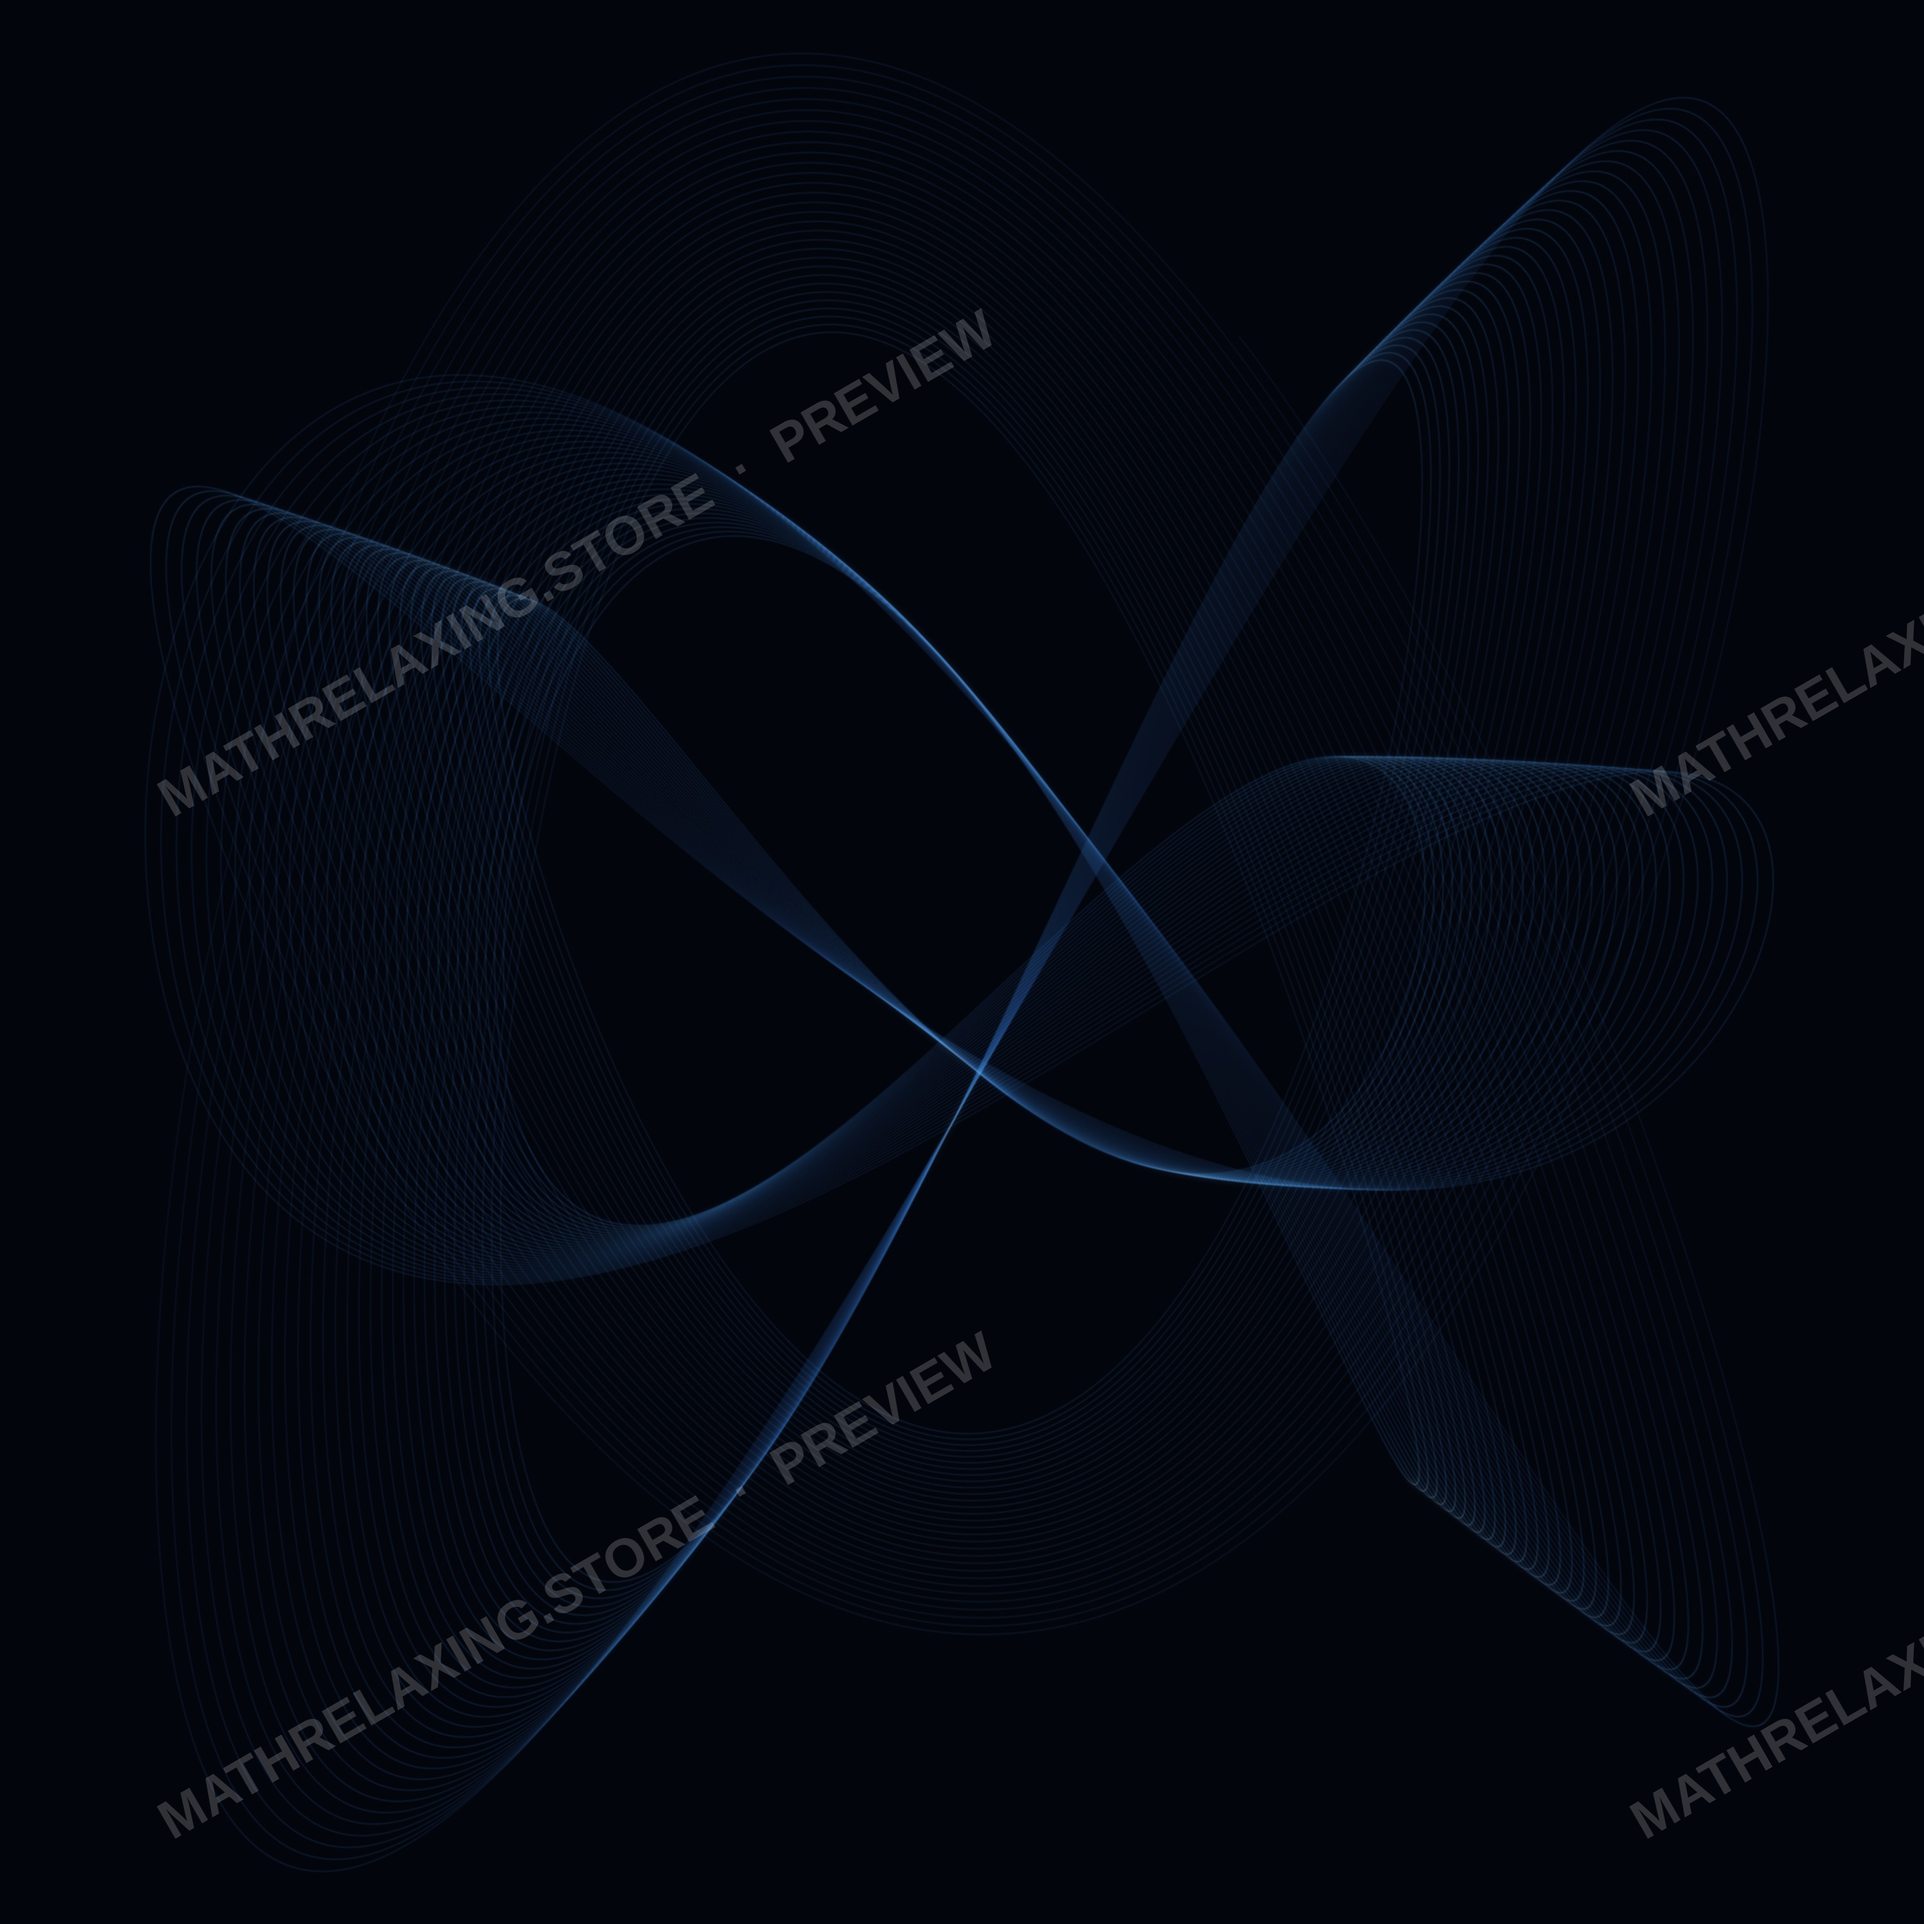
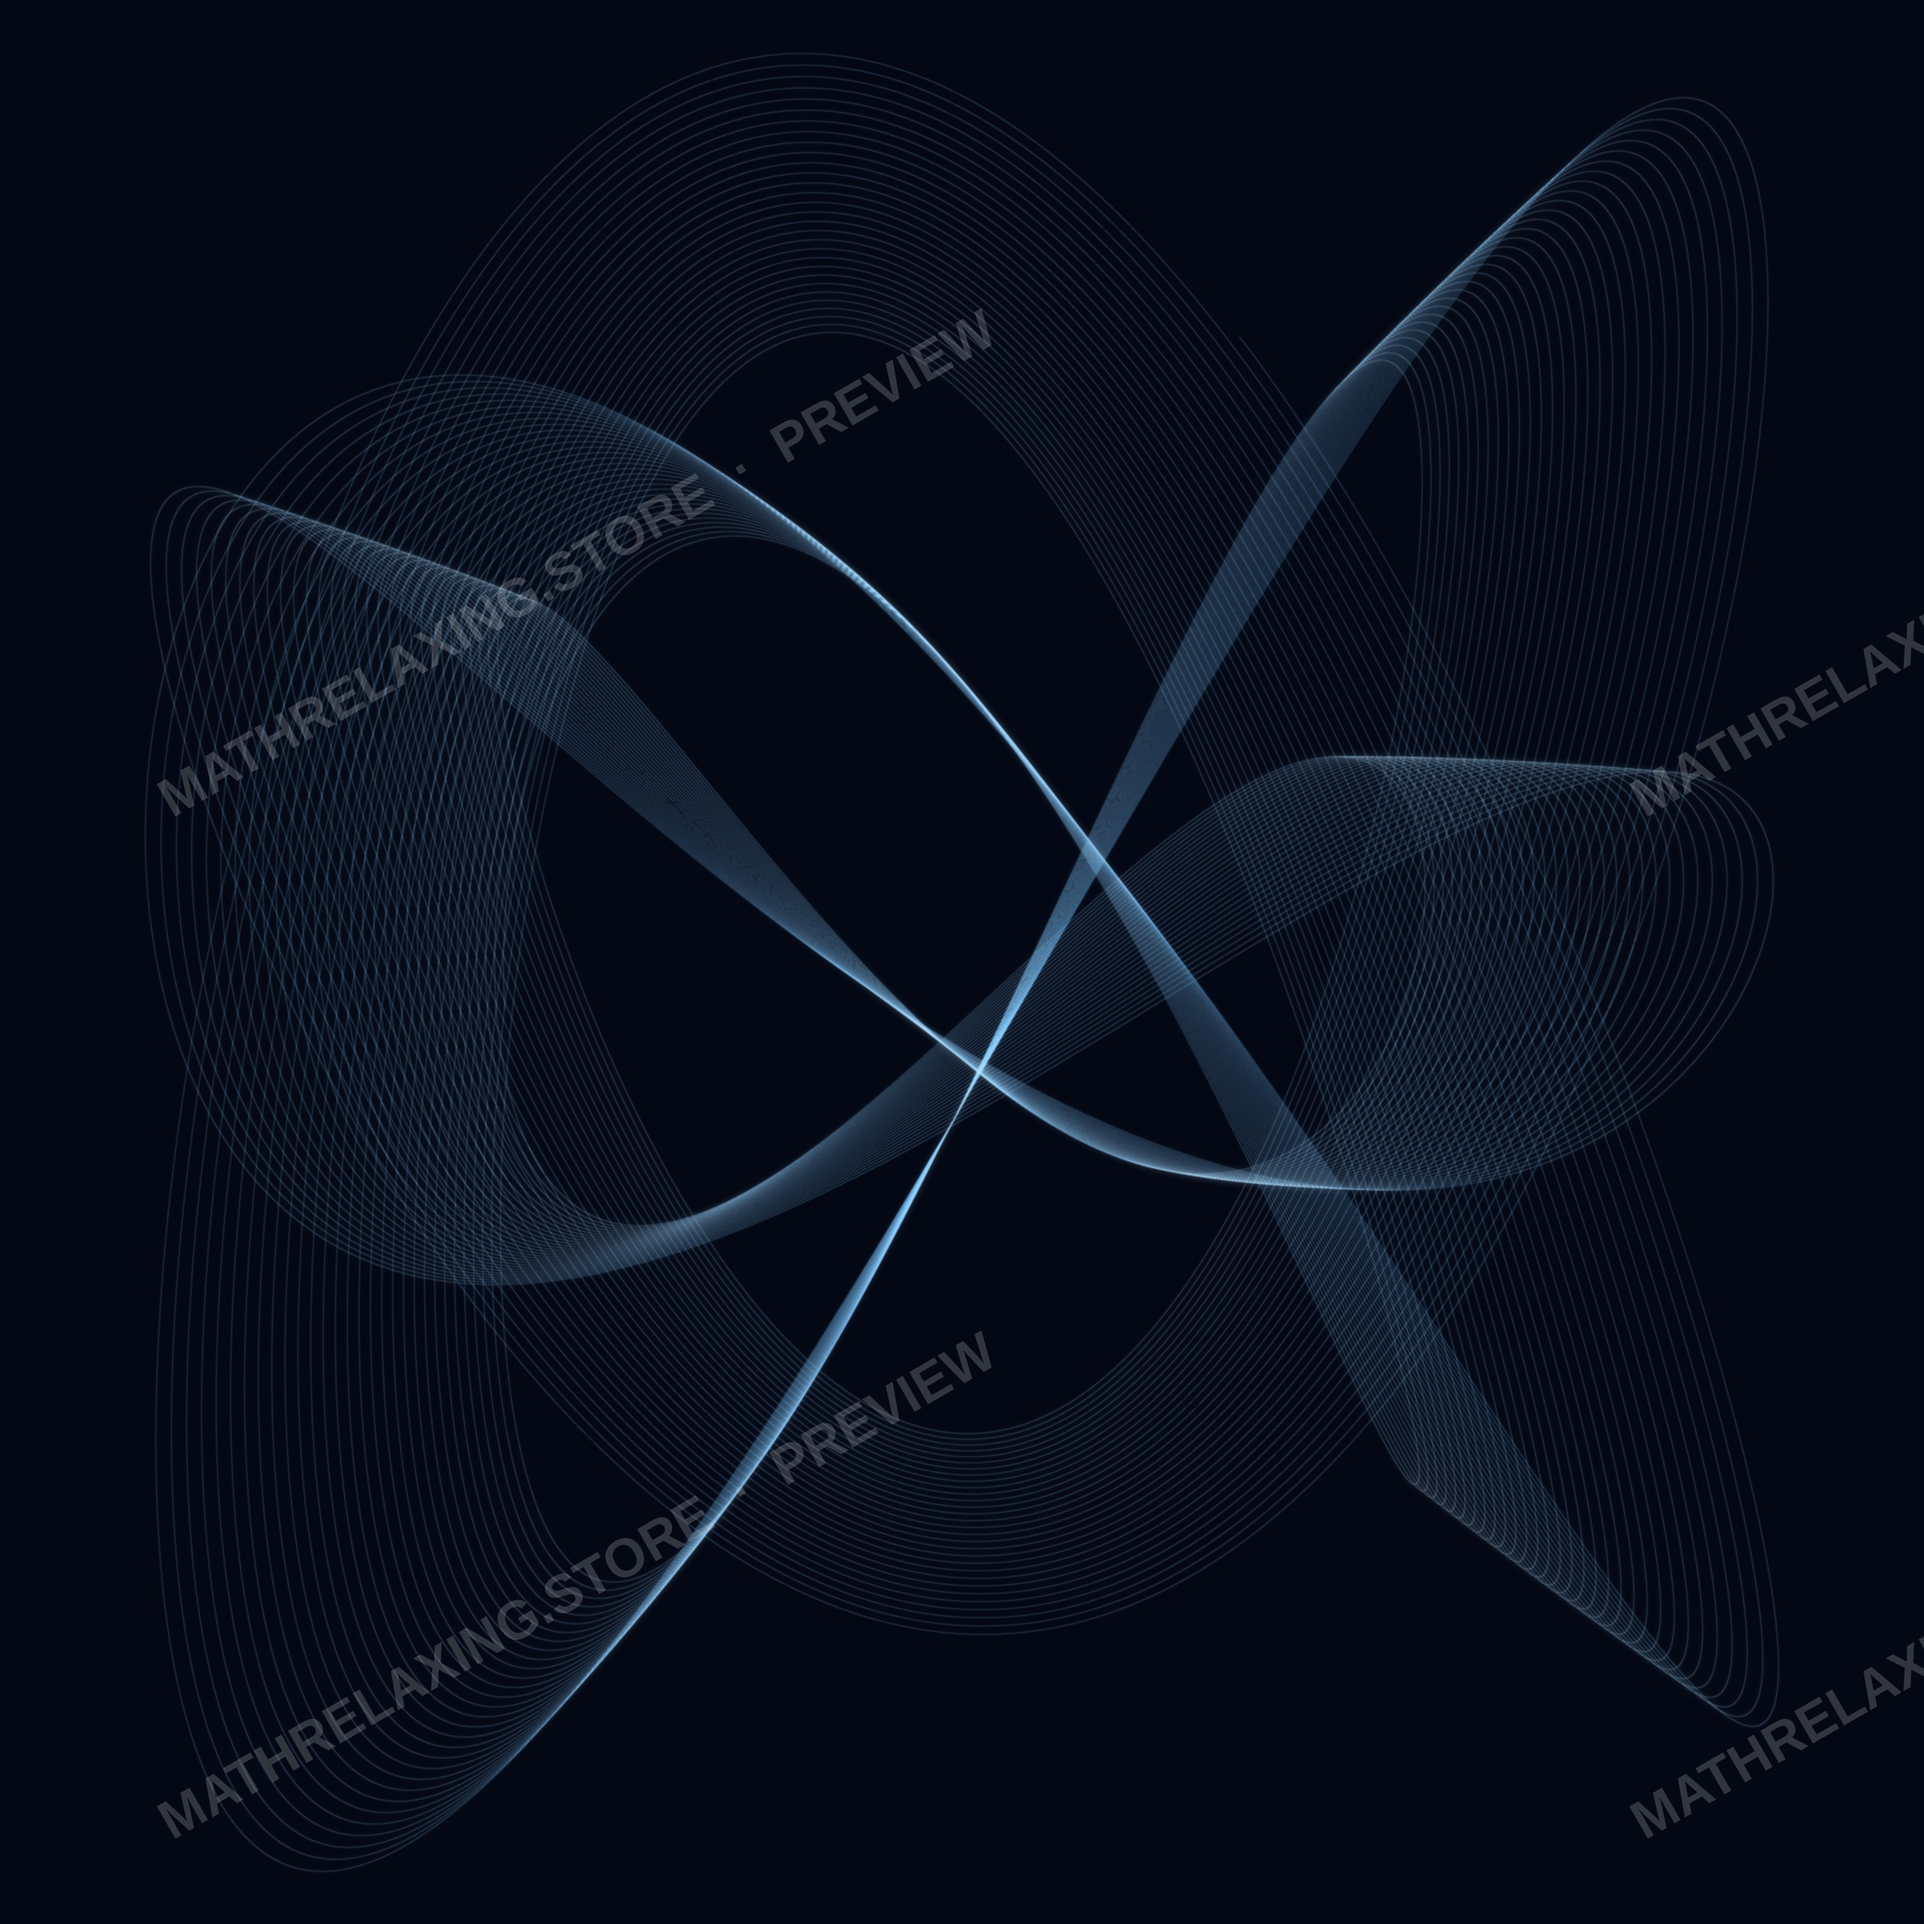
Brighten the harmonograph print so the curve pops on black
The single-pass line sat too low on the log-density scale, leaving most
of the figure a dim thread on near-black. Dropped the display gamma
(0.72 -> 0.45) and re-weighted all three palettes so the vivid colour
lands early and near-white is reserved for the self-crossing nodes.
Re-rendered the 3 variants and replaced the images + files on the live
draft (listing_id=4534117446). Also gitignore the regenerable npy cache.

diff --git a/attractor_prints/generate_harmonograph_print.py b/attractor_prints/generate_harmonograph_print.py
@@ -98,13 +98,18 @@ def simulate_histogram():
 # ── Paletas: negro -> color -> nucleo casi blanco. Elegidas para NO repetir las
 #    de Rossler (cyan/violet/amber) ni Vector Field (teal/copper/indigo);
 #    "verdigris" aporta el verde que faltaba en el catalogo de prints. ─────────
+# The bulk of the figure is a single-pass line that lands around the low-mid of
+# the (log) density scale, so the vivid, saturated colour is placed EARLY (low t)
+# and near-white is reserved for the very top (the self-crossing nodes only).
+# This keeps the whole curve reading as a bright coloured line on black instead
+# of a dim thread that only glows where it overlaps.
 PALETTES = {
-    "moonlit": [(0.00, (3, 5, 12)), (0.38, (18, 45, 95)),
-                 (0.70, (70, 150, 230)), (1.00, (235, 245, 255))],
-    "rose_gold": [(0.00, (10, 4, 8)), (0.36, (90, 25, 65)),
-                   (0.66, (210, 90, 130)), (0.86, (240, 180, 120)), (1.00, (255, 240, 225))],
-    "verdigris": [(0.00, (3, 10, 8)), (0.38, (12, 70, 60)),
-                   (0.70, (60, 190, 150)), (1.00, (230, 255, 245))],
+    "moonlit": [(0.00, (4, 8, 20)), (0.14, (30, 80, 170)),
+                 (0.42, (90, 180, 255)), (0.80, (170, 220, 255)), (1.00, (240, 250, 255))],
+    "rose_gold": [(0.00, (14, 5, 12)), (0.14, (150, 40, 95)),
+                   (0.42, (240, 90, 150)), (0.72, (250, 175, 120)), (1.00, (255, 240, 225))],
+    "verdigris": [(0.00, (4, 14, 11)), (0.14, (25, 120, 95)),
+                   (0.42, (70, 220, 165)), (0.80, (170, 240, 210)), (1.00, (235, 255, 245))],
 }
 
 
@@ -153,9 +158,10 @@ def render_from_hist(hist, palette_name, out_path):
     dens = np.log1p(hist)
     dmax = dens.max() if dens.max() > 0 else 1.0
     dens_n = np.clip(dens / dmax, 0, 1)
-    # the single-pass line sits low on the log scale; lift the gamma so the
-    # curve itself reads as a bright luminous line, not a faint thread.
-    dens_n = dens_n ** 0.72
+    # the single-pass line sits low on the log scale; lift it hard so the curve
+    # itself reads as a bright luminous line, not a faint thread. (0.72 left the
+    # bulk of the figure too dim against the black ground.)
+    dens_n = dens_n ** 0.45
 
     lut = gradient_lut(PALETTES[palette_name])
     idx = (dens_n * (len(lut) - 1)).astype(np.int32)
